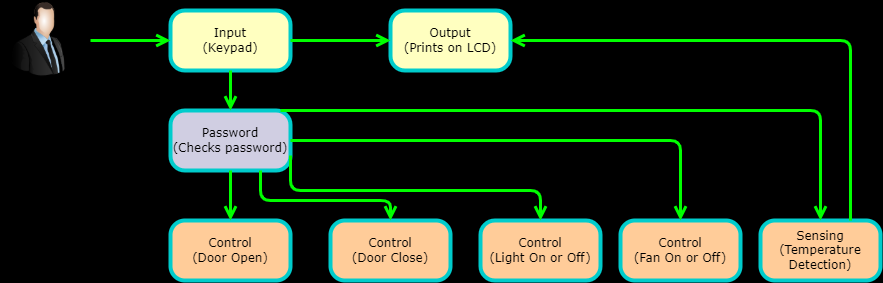
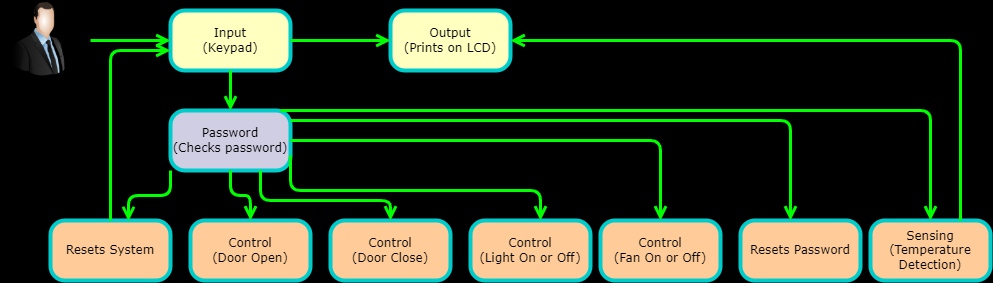
commit

Changed region(s): [[0.0306, 0.0, 1.0, 1.0], [0.3669, 0.0283, 0.6116, 0.2827]]

diff --git a/Project/3_Implementation/src/project.c b/Project/3_Implementation/src/project.c
@@ -11,7 +11,7 @@ up:
 	DDRC=0xFF;
    	while(1)  
 	{   
-		LCD_Init();	                                   /*LCD Initialisation*/
+			                                  
         LCD_String_xy(0,1,"Press a key");              /* Send string to LCD with xy position */
 	    LCD_Command(0xc0);                             /*LCD Initialisation with first row and required position<16*/
 		char result = keyfind();
@@ -118,14 +118,20 @@ up:
 							arr[i]=res1;
                				LCD_Char(res1);
 						}
+						LCD_Clear();
 				}				
 			}	
 			else if(result=='#')                           /*Microcontroller Reset*/
 			{
 			   	PORTC=(0<<0);
+				PORTC=(0<<1);  
 				PORTC=(0<<2);
 				PORTC=(0<<3);
 				PORTC=(0<<4);
+                PORTC=(0<<6);
+				PORTB=(0<<1);
+				PORTB=(0<<2);
+
 				goto up;
 			}
 

diff --git a/Project/4_TestPlanAndOutput/README.md b/Project/4_TestPlanAndOutput/README.md
@@ -6,9 +6,9 @@
 | 01 | Thermistor | Room Temperature(35°C) | Temperature(35°C) | Temperature(35°C) | ✅ |
 | 02 | Keypad | 1 | 1(Door Opens) | 1(Door Opens) | ✅ |
 | 03 | Keypad | 2 | 2(Door Closes) | 2(Door Closes) | ✅ |
-| 04 | Keypad | 3 | 3(Ligh1 On or Off) | 3(Ligh On or off) | ✅ |
-| 05 | Keypad | 4 | 4(Ligh On or Off) | 4(Ligh On or off) | ✅ |
-| 06 | Keypad | 5 | 5(Ligh On or Off) | 5(Ligh On or off) | ✅ |
+| 04 | Keypad | 3 | 3(Ligh1 On or Off) | 3(Light On or off) | ✅ |
+| 05 | Keypad | 4 | 4(Ligh On or Off) | 4(Light On or off) | ✅ |
+| 06 | Keypad | 5 | 5(Ligh On or Off) | 5(Light On or off) | ✅ |
 | 07 | Keypad | 6 | 6(Fan On or Off) | 6(Fan On or off) | ✅ |
 | 08 | Keypad | 7 | 7(Fan On or off) | 7(Fan On or off) | ✅ |
 | 09 | Keypad | 8 | 8(Fan On or Off) | 8(Fan On or off) | ✅ |
